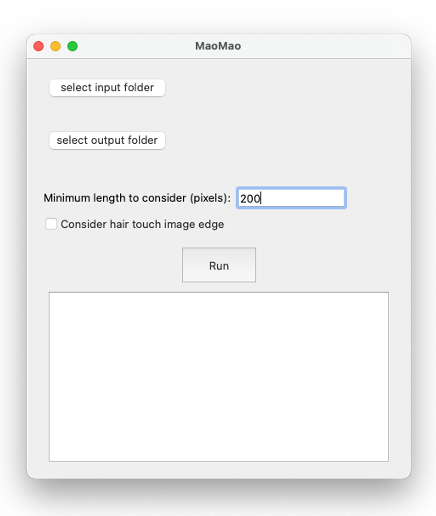
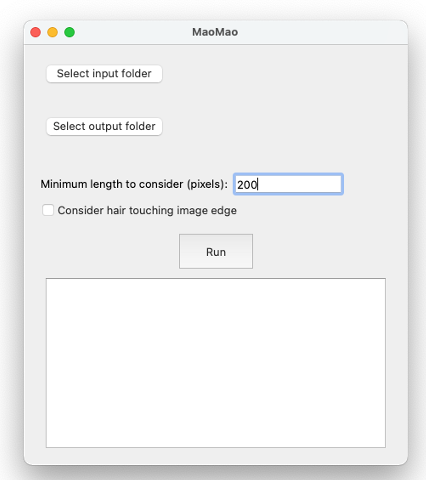
updated overview

Changed region(s): [[0.0305, 0.0312, 0.9765, 1.0], [0.1221, 0.25, 0.3662, 0.3125], [0.4272, 0.0625, 0.5798, 0.125]]

diff --git a/app.py b/app.py
@@ -22,7 +22,7 @@ class MainWindow(QWidget):
         self.minlength_val = 200
         self.keep_edges = False
         self.iniUI()
-        
+
 
     def iniUI(self):
         outerLayout = QVBoxLayout()
@@ -39,17 +39,17 @@ class MainWindow(QWidget):
         self.button1.setFixedSize(150, 30)
         self.button2 = QPushButton(self)
         self.button2.setFixedSize(150, 30)
-        self.label1 = QLabel(self) 
-        self.label2 = QLabel(self) 
-        self.button1.setText("select input folder")
-        self.button1.clicked.connect(self.pick_input_folder)  # add (connect) button event 
-        self.button2.setText("select output folder")
+        self.label1 = QLabel(self)
+        self.label2 = QLabel(self)
+        self.button1.setText("Select input folder")
+        self.button1.clicked.connect(self.pick_input_folder)  # add (connect) button event
+        self.button2.setText("Select output folder")
         self.button2.clicked.connect(self.pick_output_folder)
         self.minlength = QLineEdit("200")
         self.minlength.setValidator(QIntValidator())
         #self.minlength.setAlignment(Qt.AlignLeft)
         self.minlength.textChanged.connect(self.collect_min_length)
-        self.edge = QCheckBox("Consider hair touch image edge")
+        self.edge = QCheckBox("Consider hair touching image edge")
         self.edge.toggled.connect(self.collect_edge_state)
         self.button3 = QPushButton(self)
         self.button3.setFixedSize(100, 50)
@@ -74,7 +74,7 @@ class MainWindow(QWidget):
         outerLayout.addStretch()
         self.setLayout(outerLayout)
 
-    
+
     def pick_input_folder(self):
         dialog = QFileDialog()
         folder_path = str(dialog.getExistingDirectory(self, "Open a folder",expanduser("~"), QFileDialog.ShowDirsOnly))
@@ -82,7 +82,7 @@ class MainWindow(QWidget):
         self.label1.setText(folder_path)
         self.label1.show()
         self.message("Input folder selected.")
-    
+
     def pick_output_folder(self):
         dialog = QFileDialog()
         folder_path = str(dialog.getExistingDirectory(self, "Open a folder",expanduser("~"), QFileDialog.ShowDirsOnly))
